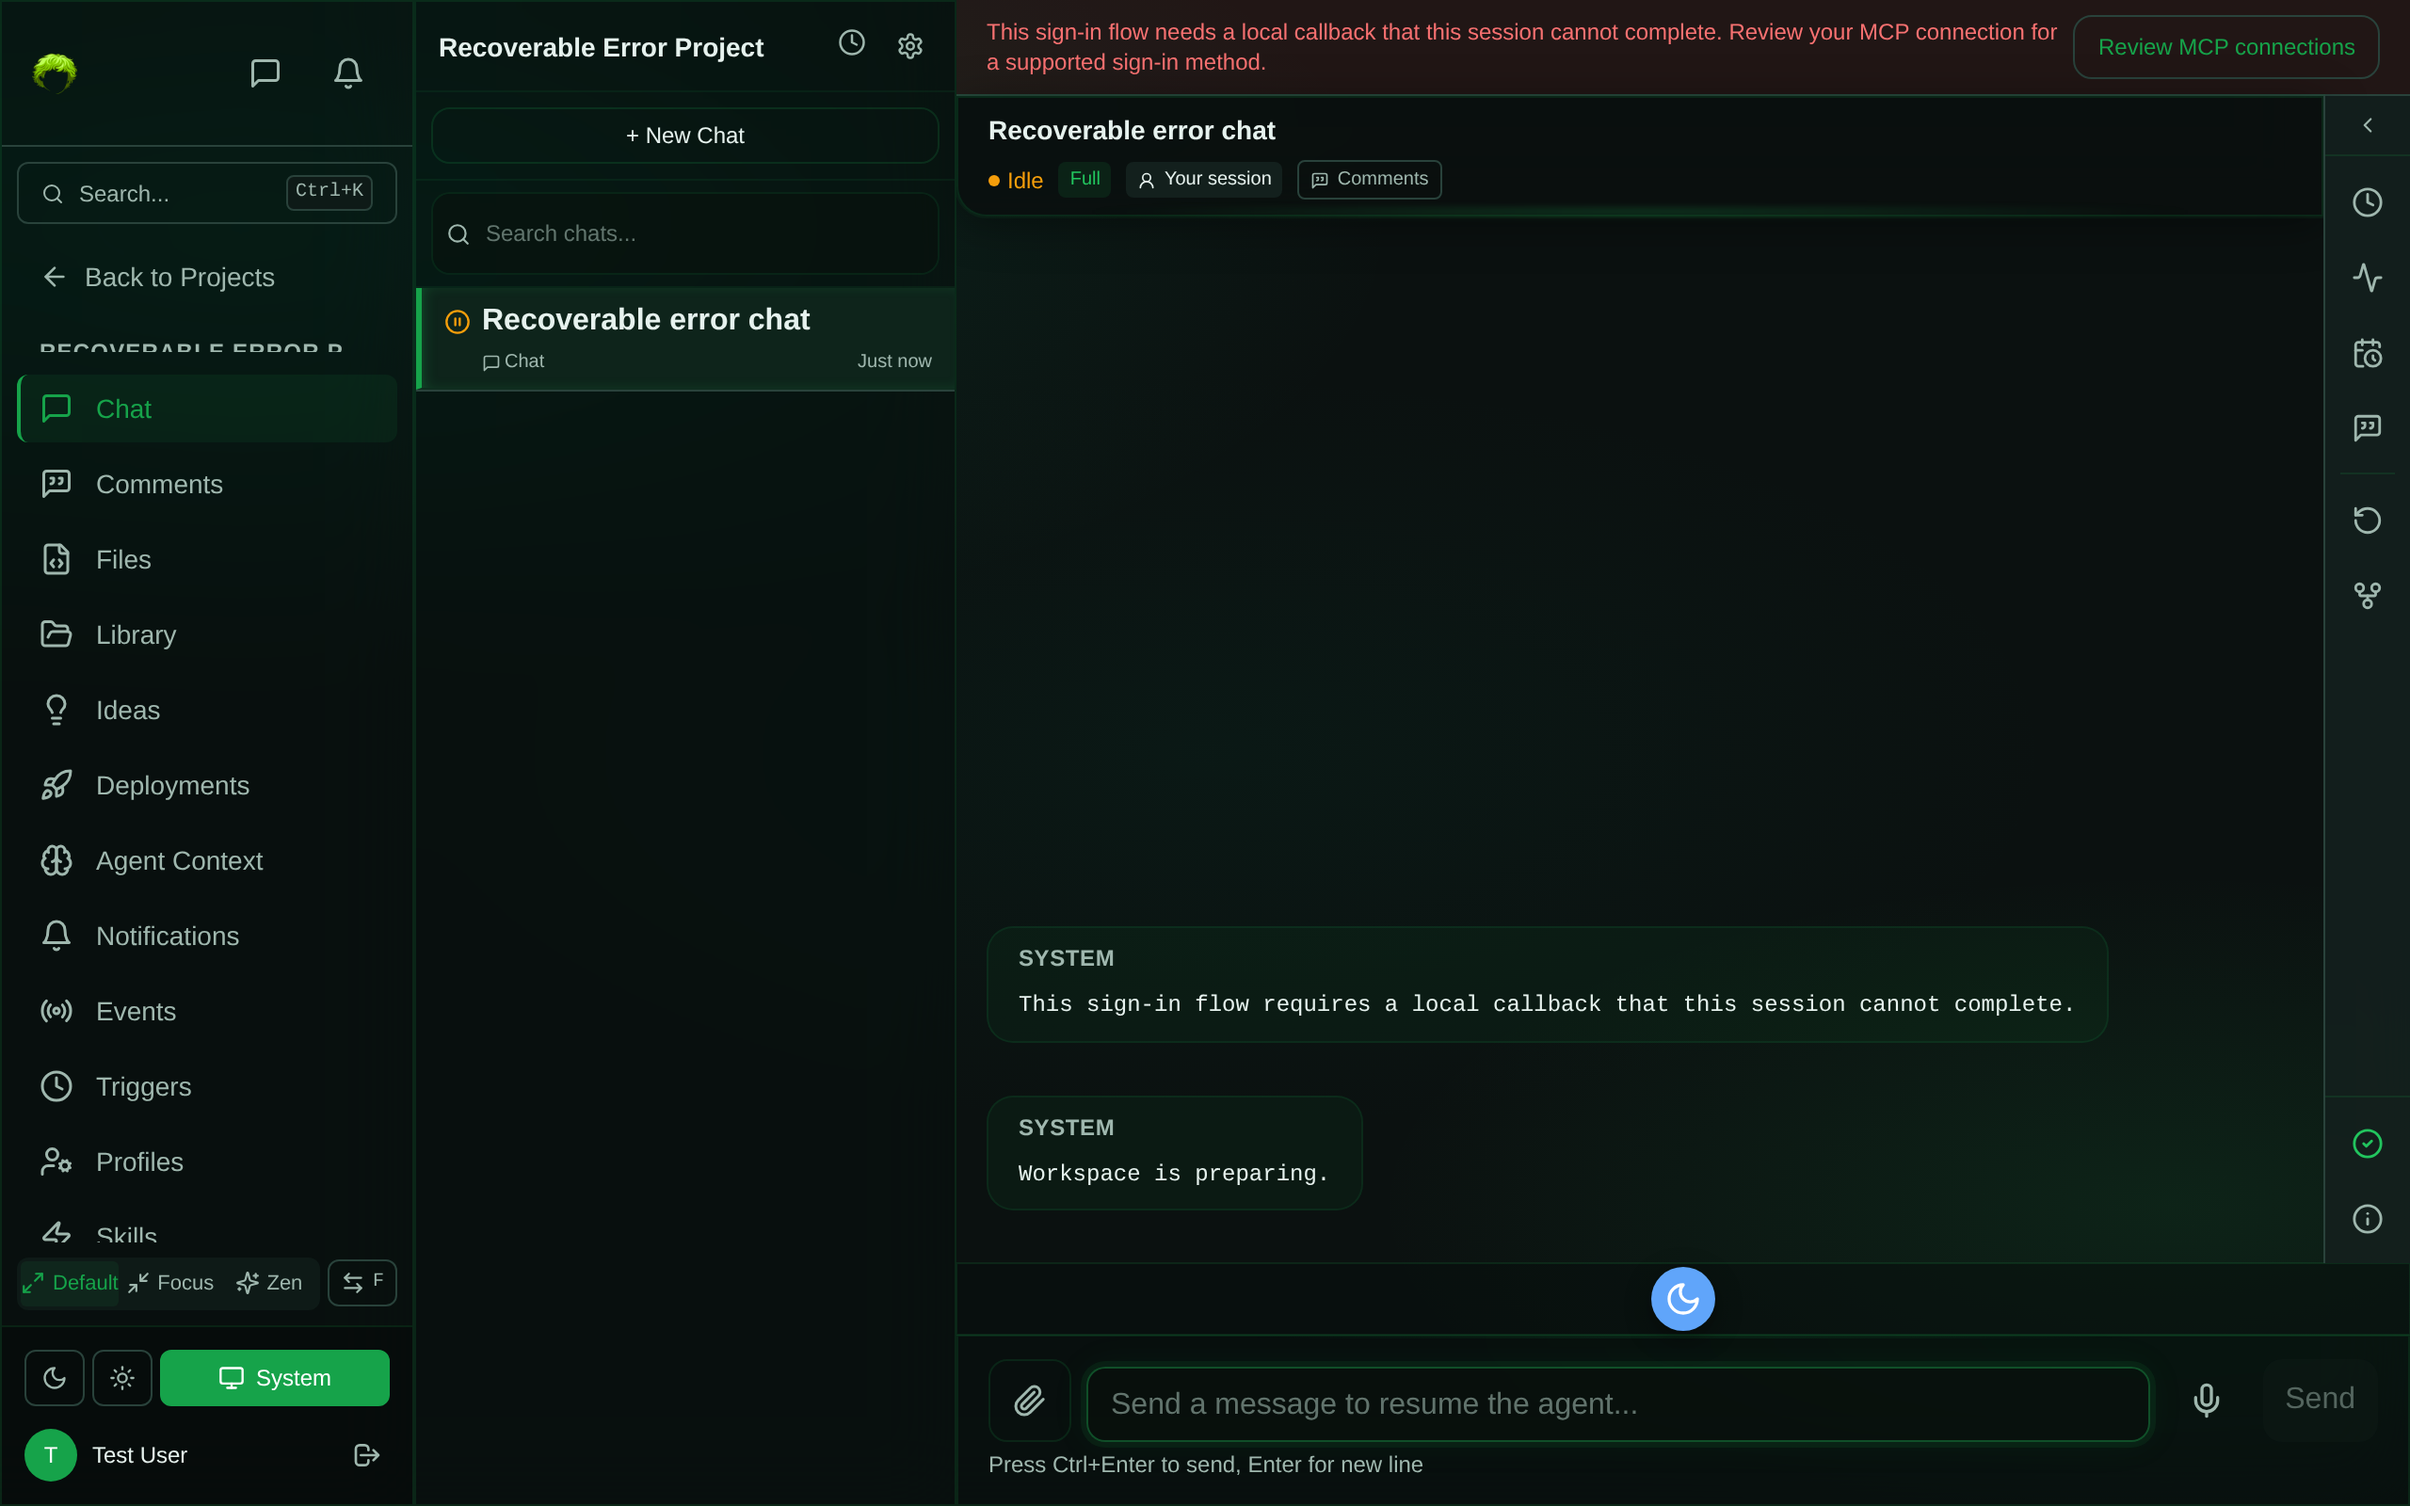
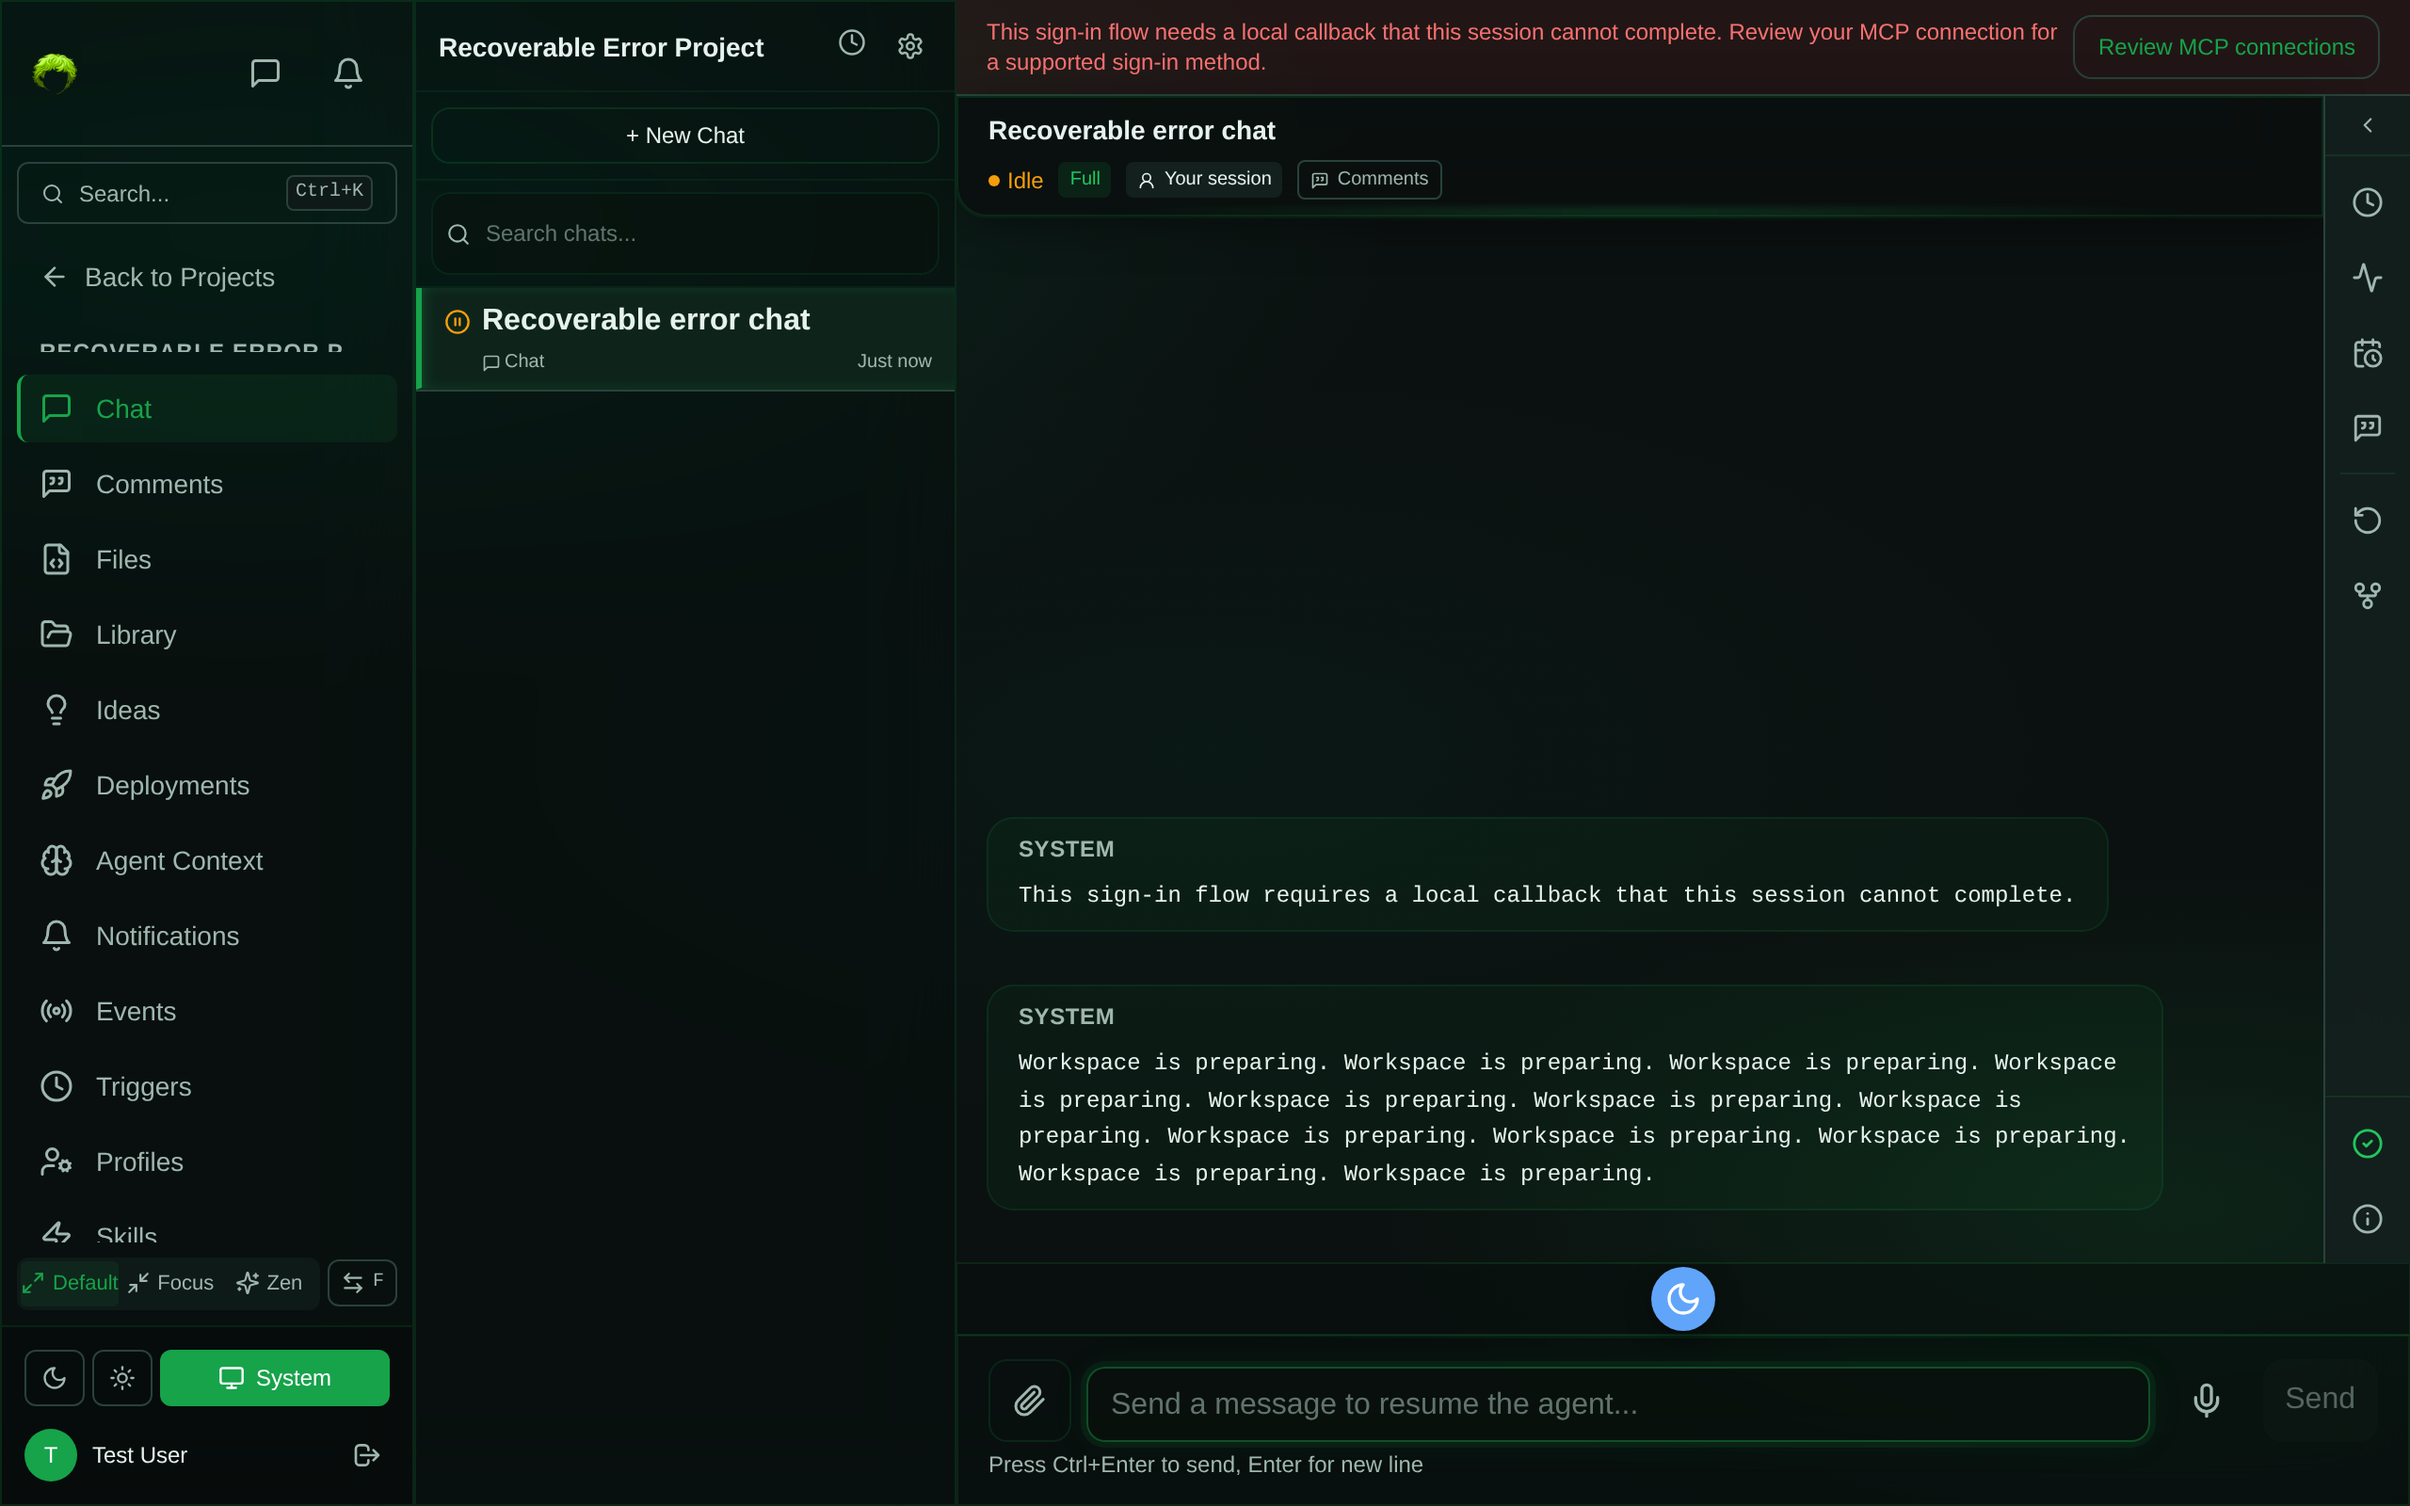
Require trusted codes for credential guidance

diff --git a/packages/shared/src/failure-classification.ts b/packages/shared/src/failure-classification.ts
@@ -16,7 +16,6 @@ export type FailureCode =
   | 'capacity'
   | 'provisioning'
   | 'agent-install'
-  | 'credentials'
   | 'model-credential-missing'
   | 'model-credential-rejected'
   | 'mcp-auth-required'
@@ -159,25 +158,6 @@ const FAILURE_RULES: FailureRule[] = [
     retryable: true,
     diagnosable: true,
     patterns: [/^model_provider_credential_rejected$/],
-  },
-  {
-    code: 'credentials',
-    label: 'Credentials / billing',
-    explanation: 'An API key, OAuth token, or account balance problem stopped the agent.',
-    guidance:
-      'Check the agent credential in Settings (API key validity, OAuth login, or provider credit balance), then retry.',
-    retryable: true,
-    diagnosable: true,
-    patterns: [
-      /credit balance/,
-      /insufficient (credit|funds|quota)/,
-      /invalid (api key|x-api-key|token|credential)/,
-      /(authentication|authorization) (failed|error)/,
-      /\bunauthorized\b/,
-      /token (expired|revoked|invalid)/,
-      /refresh token/,
-      /billing/,
-    ],
   },
   {
     code: 'provider-overload',
@@ -345,12 +325,10 @@ export function classifyFailure(
 ): FailureClassification {
   const haystack = `${message ?? ''} ${step ?? ''}`.toLowerCase();
   const structuralEvidence = (message ?? '').trim().toLowerCase();
-  const ambiguousProtocolAuth = /^(?:mcp\b|tool\b|assistant\b|api error\b)/.test(structuralEvidence);
   if (!haystack.trim()) {
     return UNKNOWN_CLASSIFICATION;
   }
   for (const rule of FAILURE_RULES) {
-    if (rule.code === 'credentials' && ambiguousProtocolAuth) continue;
     const evidence = STRUCTURAL_FAILURE_CODES.has(rule.code) ? structuralEvidence : haystack;
     if (rule.patterns.some((p) => p.test(evidence))) {
       return {

diff --git a/packages/shared/tests/unit/failure-classification.test.ts b/packages/shared/tests/unit/failure-classification.test.ts
@@ -14,7 +14,6 @@ describe('classifyFailure', () => {
     ['cancelled', 'Task was cancelled by the user'],
     ['input-expired', 'Human input request expired after timeout'],
     ['capacity', 'Cloud provider reported server limit reached'],
-    ['credentials', 'Authentication failed: token expired'],
     ['provider-overload', 'Provider returned 529 overloaded'],
     ['agent-install', 'Codex installation failed in the workspace'],
     ['provisioning', 'Workspace creation timed out'],
@@ -63,7 +62,7 @@ describe('classifyFailure', () => {
       'cancelled'
     );
     expect(classifyFailure('Unauthorized request was also rate limited with 429').code).toBe(
-      'credentials'
+      'provider-overload'
     );
   });
 
@@ -126,11 +125,15 @@ describe('classifyFailure', () => {
   });
 
   it.each([
-    'MCP service returned HTTP 401 invalid authentication',
-    'API Error: 401 invalid authentication',
-    'Tool output: unauthorized',
-  ])('does not treat ambiguous protocol text as provider credentials: %s', (message) => {
-    expect(classifyFailure(message).code).not.toBe('credentials');
+    ['https://example.test/callback?error=unauthorized', 'running'],
+    ['schema={"error":"invalid token"}', 'running'],
+    ['Provider HTTP 401 invalid authentication', 'running'],
+    ['agent_prompt_failed', 'unauthorized'],
+    ['Authentication failed: token expired', 'running'],
+  ])('does not infer credentials from untrusted message or step: %s / %s', (message, step) => {
+    const result = classifyFailure(message, step);
+    expect(result.code).not.toMatch(/credential|mcp-auth-required/);
+    expect(result.guidance).not.toMatch(/credential|connect the agent|sign.in|login/i);
   });
 
   it.each([

diff --git a/apps/web/tests/playwright/project-chat-recoverable-error-audit.spec.ts b/apps/web/tests/playwright/project-chat-recoverable-error-audit.spec.ts
@@ -271,7 +271,7 @@ test.describe('Project chat recoverable error banner', () => {
     };
     await setupApiMocks(page, { ...MOCK_TASK, errorMessage: null }, true, [
       systemMessage,
-      { ...systemMessage, id: 'msg-system-later', content: 'Workspace is preparing.' },
+      { ...systemMessage, id: 'msg-system-later', content: 'Workspace is preparing. '.repeat(12) },
     ]);
     await page.goto('/projects/proj-test-1/chat/session-recoverable-1');
     const banner = page.getByTestId('loopback-auth-guidance');

diff --git a/tasks/active/2026-10-01-acp-auth-diagnosis.md b/tasks/active/2026-10-01-acp-auth-diagnosis.md
@@ -43,6 +43,8 @@ Post-C2 additive hook: when an enabled, well-formed `requestURL` is rejected by 
 
 The independent chat consumer now recognizes only the fixed VM-authored system text `This sign-in flow requires a local callback that this session cannot complete.` It shows a creator-only link to existing MCP settings, asks other members to contact the creator, and clears after a later user or assistant turn. Assistant/tool text and unrelated system rows cannot synthesize the banner. The producer remains pending C2 freeze release; this consumer alone does not claim runtime loopback coverage.
 
+Review correction: the legacy display classifier no longer infers `credentials` from combined free-text message and execution step. URL query text, schema fields, Provider 401 prose, and `unauthorized` step text stay generic unless the task carries an exact trusted reason code. Historical untyped auth/billing prose can therefore fall back to general investigation guidance; that tradeoff avoids prescribing credential changes without provenance.
+
 Parent-owned final runtime matrix: exact agent-credential 404 versus workspace 404; real Claude `authentication_failed` and `model_not_found` when reproducible; actual Codex GPT-6.1 unsupported-model HTTP 400 after successful ACP selection; MCP auth failure remaining generic without a trusted ACP source; accepted C2 HTTPS URL versus explicit loopback callback; creator/member desktop and mobile settings navigation; canary absence from callback, logs, events, and transcript; retry after updating a connection; cross-project authorization. Distinguish fixture results from real provider-account outcomes.
 
 ## Verification
